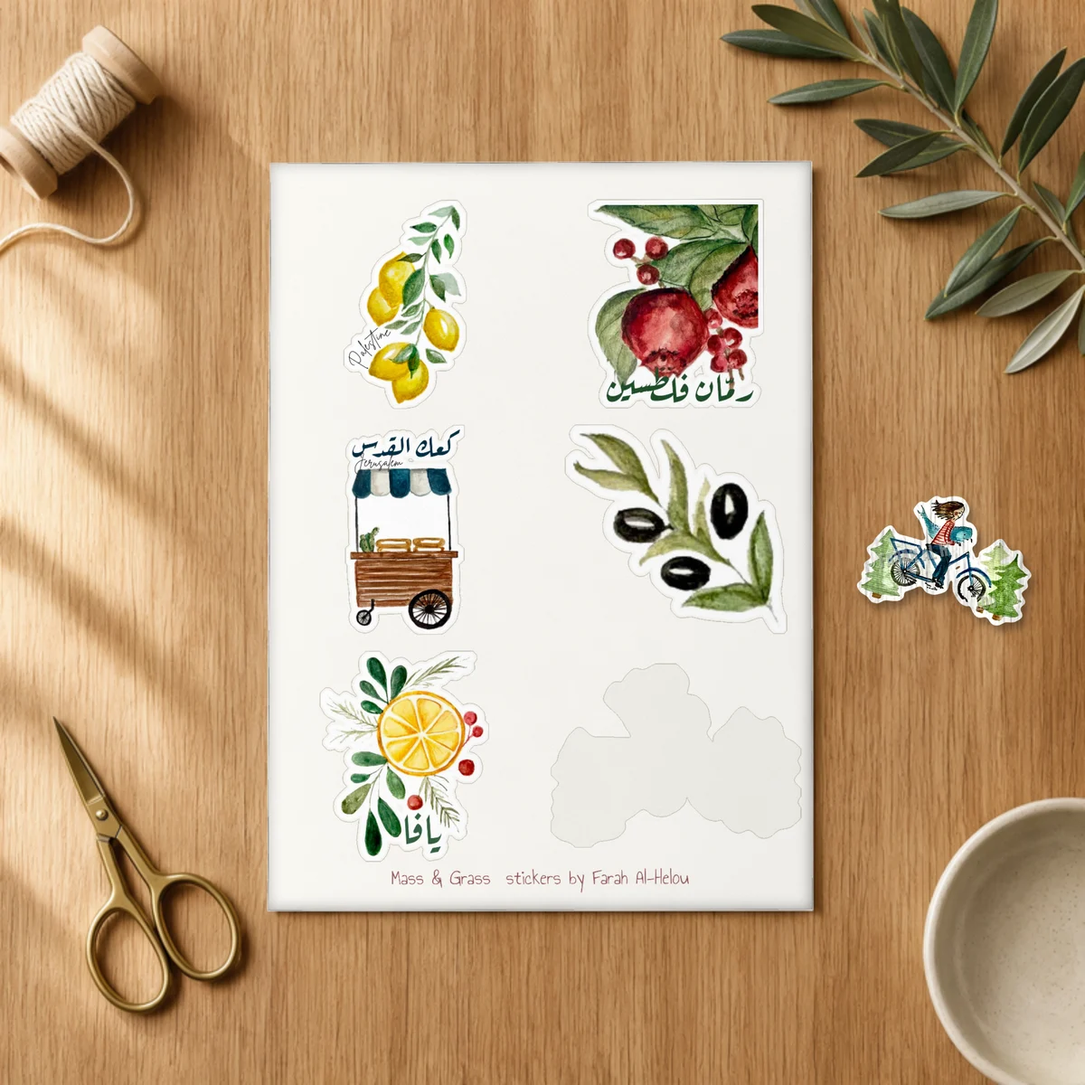
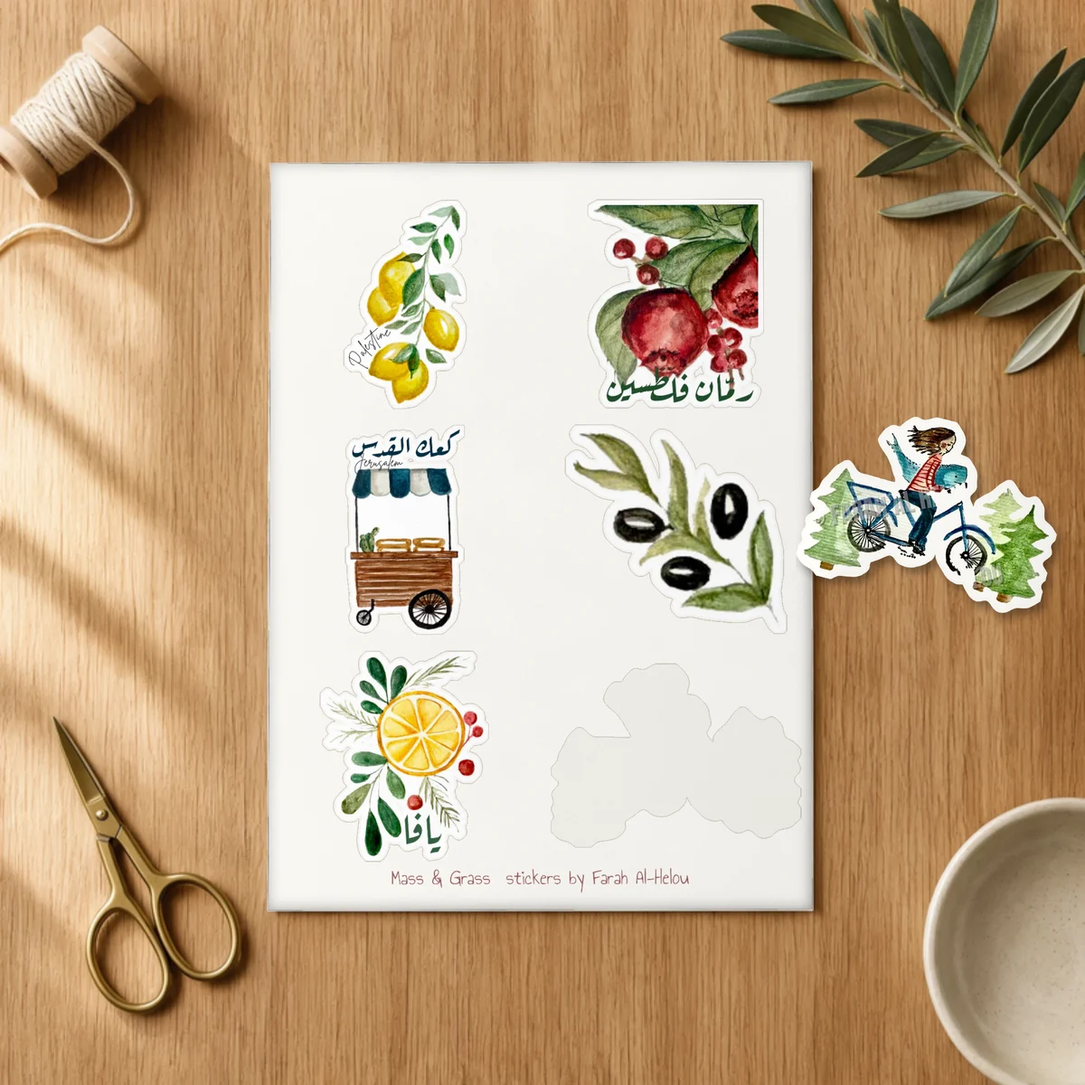
Mockups: whole paintings on cards, stickers to scale and in their shape, the V2 calendar in the quick view
- Postcards (quick view, postcards page, just in): a painting whose shape is not the card's sits whole
  inside a paper border instead of being cropped; the card on the desk is opaque (the back card's
  address no longer shows through it); the caption on a card back is centred, clear of the thumb;
  scenes use the product's own image.
- Stickers on things: long side a fifth of the object's long side (the phone and notebook ones were
  two to three times too big); round and square stickers show their white-edged cut, not a bare rectangle.
- Quick view: the calendar is shown in the V2 photographs (wall, desk, table, January) instead of the
  earlier landscape calendar; "The piece itself" no longer overflows; reopening right after closing
  no longer throws.
- Home: shelf sticker hover sized inside its cell; just-in sticker scale follows the new sizing.
- sh-sk re-rendered: the peeled sticker is the size of the hole it left. tools/shelf_mockups.py now
  runs from the repo blanks (drafts/mockups/shelves) and takes the parts to make.

Claude-Session: https://claude.ai/code/session_011WuUMkvb8t9MEEabS5wD9n

Changed region(s): [[0.74, 0.37, 0.9867, 0.5858]]

diff --git a/web/assets/js/mock.js b/web/assets/js/mock.js
@@ -14,11 +14,17 @@
   const CARD = { 'pc-desk2': { w: 1600, h: 1600, x: .3745, y: .3939, ww: .4859, wh: .3406, rot: 9.31, top: false, n: ['On the desk', 'على المكتب'] },
     'pcp-window': { w: 1536, h: 1920, x: .2168, y: .1391, ww: .5462, wh: .663, clip: '0.00% 0.47%,99.05% 0.00%,100.00% 99.92%,0.83% 100.00%', o: 'p', n: ['By the window', 'عند النافذة'] }, 'pcp-table': { w: 1536, h: 1152, x: .321, y: .1597, ww: .3561, wh: .6571, o: 'p', n: ['In both hands', 'بين اليدين'] } };
   const THING = { 'sk-laptop': { r: [.13, .15, .75, .70], s: .2, n: ['On a laptop', 'على الحاسوب'] }, 'sk-notebook': { r: [.275, .05, .395, .905], s: .24, n: ['On a notebook', 'على الدفتر'] }, 'sk-phone': { r: [.35, .25, .31, .665], s: .2, n: ['On a phone', 'على الهاتف'] } };
-  const CAL = { 'cr2-wall': ['On the wall', 'على الحائط'], 'cr2-hands': ['In the hands', 'بين اليدين'], 'cr2-desk': ['On the desk', 'على المكتب'], 'cr2-flat': ['The pages', 'الصفحات'] };
+  /* the calendar on sale (V2, portrait) in its own photographs: the cr2-* set shows the earlier landscape calendar */
+  const CAL = { 'cww-00': ['On the wall', 'على الحائط'], 'cd-00': ['On the desk', 'على المكتب'], 'cwf-00': ['On the table', 'على الطاولة'], 'cww-01': ['Open on January', 'مفتوحًا على يناير'] };
+  const CALAR = { 'cd-00': 1440 / 1080 };
   const fit = (id, set) => Object.keys(set).map((k) => [k, Math.abs(Math.log((set[k].ww * set[k].w) / (set[k].wh * set[k].h) / asp(id)))]).sort((a, b) => a[1] - b[1]);
   /* the painting whole inside the frame's mat: the same margin all round, a little more at the bottom, as framers cut it */
   function artBox(id, m) { const a = asp(id), mw = m.ww * m.w, mh = m.wh * m.h, g = .13 * Math.min(mw, mh), bw = mw - 2 * g, bh = mh - 2 * g; let w, h; if (a > bw / bh) { w = bw; h = w / a; } else { h = bh; w = h * a; }
     const top = (mh - h) / 2 - .012 * mh; return `left:${((m.x + (mw - w) / 2 / m.w) * 100).toFixed(3)}%;top:${((m.y + top / m.h) * 100).toFixed(3)}%;width:${((w / m.w) * 100).toFixed(3)}%;height:${((h / m.h) * 100).toFixed(3)}%`; }
+  /* a card is printed with its painting whole: when the painting's shape is not the card's, it sits inside a paper border
+     (the photograph's own blank card shows round it) instead of being cut */
+  function cardFit(id, m) { const ca = (m.ww * m.w) / (m.wh * m.h); if (Math.abs(Math.log(ca / asp(id))) <= .04) return ';object-fit:cover';
+    const b = .045 * Math.min(m.ww * m.w, m.wh * m.h) / m.w * 100; return `;object-fit:contain;box-sizing:border-box;padding:${b.toFixed(3)}%`; }
   /* the photographs that suit one piece, best first: [key, name] */
   function scenes(kind, id) {
     if (kind === 'painting') { const d = fit(id, ROOM); return d.filter((x) => x[1] <= d[0][1] + .3).slice(0, 4).map((x) => [x[0], ROOM[x[0]].n]); }
@@ -31,12 +37,19 @@
     const src = esc(kind === 'calendar' ? '' : MG.img(id, p || MG.product(kind, id)));
     if (kind === 'painting') { const m = ROOM[key]; return `<div class="mscene" style="--ar:${m.w / m.h}"><img class="room" src="assets/${key}.webp" alt=""><img class="art framed" src="${src}" alt="" style="${artBox(id, m)}"></div>`; }
     if (kind === 'postcard') { const m = CARD[key], pos = `left:${m.x * 100}%;top:${m.y * 100}%;width:${m.ww * 100}%;height:${m.wh * 100}%`;
-      return `<div class="mscene" style="--ar:${m.w / m.h}"><img class="room" src="assets/${key}.webp" alt=""><img class="art card" src="${src}" alt="" style="${pos}${m.clip ? `;clip-path:polygon(${m.clip})` : ''}${m.rot ? `;rotate:${m.rot}deg;box-shadow:0 1px 2px rgba(60,45,30,.25),0 10px 18px -8px rgba(60,45,30,.35)` : ''}">${m.top === false ? '' : `<img class="top" src="assets/${key}-top.webp" alt="">`}</div>`; }
-    /* a sticker the size a sticker is: about a fifth of a laptop lid, smaller still when it is tall */
-    if (kind === 'sticker') { const m = THING[key], r = m.r, a = asp(id) || .8, w = m.s * .82 * Math.min(1, Math.sqrt(a)); return `<div class="mscene" style="--ar:${1536 / 1152}"><img class="room" src="assets/${key}.webp" alt=""><img class="art stuck" src="${src}" alt="" style="left:${(r[0] + r[2] / 2 - w / 2) * 100}%;top:${(r[1] + r[3] * .5) * 100}%;width:${w * 100}%"></div>`; }
-    return `<div class="mscene" style="--ar:${3072 / 1728}"><img class="room" src="assets/${key}.webp" alt=""></div>`;
+      return `<div class="mscene" style="--ar:${m.w / m.h}"><img class="room" src="assets/${key}.webp" alt=""><img class="art card" src="${src}" alt="" style="${pos}${cardFit(id, m)}${m.clip ? `;clip-path:polygon(${m.clip})` : ''}${m.rot ? `;rotate:${m.rot}deg;box-shadow:0 1px 2px rgba(60,45,30,.25),0 10px 18px -8px rgba(60,45,30,.35)` : ''}">${m.top === false ? '' : `<img class="top" src="assets/${key}-top.webp" alt="">`}</div>`; }
+    /* a sticker the size a sticker is: its long side a fifth of the long side of the thing it is on; die-cut stickers keep
+       their own outline, round and square ones are cut from the painting with a white edge, as they are printed */
+    if (kind === 'sticker') { const m = THING[key], r = m.r, pr = p || MG.product(kind, id), sh = (pr && pr.extra && pr.extra.shape) || 'die',
+        a = sh === 'round' ? 1 : asp(id) || .8, L = .2 * Math.max(r[2] * 1536, r[3] * 1152), w = (a >= 1 ? L : L * a) / 1536,
+        at = `left:${(r[0] + r[2] / 2 - w / 2) * 100}%;top:${(r[1] + r[3] * .5) * 100}%;width:${w * 100}%`;
+      const ix = a >= 1 ? 6 / a : 6, iy = a >= 1 ? 6 : 6 * a;
+      const st = sh === 'die' ? `<img class="art stuck" src="${src}" alt="" style="${at}">`
+        : `<span class="art stuck cut ${sh === 'round' ? 'rd' : 'sq'}" style="${at};aspect-ratio:${a}"><img src="${src}" alt="" style="left:${ix}%;top:${iy}%;width:${100 - 2 * ix}%;height:${100 - 2 * iy}%"></span>`;
+      return `<div class="mscene" style="--ar:${1536 / 1152}"><img class="room" src="assets/${key}.webp" alt="">${st}</div>`; }
+    return `<div class="mscene" style="--ar:${CALAR[key] || 1920 / 1080}"><img class="room" src="assets/${key}.webp" alt=""></div>`;
   }
-  MG.mock = { scenes, scene, asp, ROOM, artBox };
+  MG.mock = { scenes, scene, asp, ROOM, artBox, cardFit };
 
   /* ---------- the quick view: click a piece anywhere and see it in a photograph ---------- */
   let dlg = null, cur = null;
@@ -46,7 +59,7 @@
     if (!dlg) { dlg = doc.createElement('dialog'); dlg.className = 'peek'; dlg.setAttribute('aria-labelledby', 'peek-h'); doc.body.append(dlg);
       dlg.addEventListener('click', (e) => { if (e.target === dlg || e.target.closest('[data-close]')) return dlg.close();
         const b = e.target.closest('[data-sc]'); if (b) { cur.i = +b.dataset.sc; paint(); } });
-      dlg.addEventListener('close', () => { cur = null; }); }
+      dlg.addEventListener('close', () => { if (!dlg.open) cur = null; }); }
     cur = { kind, id, p, sc, i: 0 }; paint(); if (!dlg.open) dlg.showModal(); return true;
   }
   function paint() {
@@ -54,7 +67,7 @@
     const name = cal ? L(MG.calendar.title).replace(/[,،]\s*2027/, '') : MG.title(p), page = MG.PAGE[kind] + (cal ? '' : '#' + id);
     dlg.dir = MG.ar ? 'rtl' : 'ltr';
     dlg.innerHTML = `<div class="peek-in"><button class="x" type="button" data-close aria-label="${t('Close', 'إغلاق')}"><svg viewBox="0 0 16 16" width="14" height="14" aria-hidden="true"><path d="M3 3l10 10M13 3L3 13" fill="none" stroke="currentColor" stroke-width="1.6" stroke-linecap="round"/></svg></button>
-      <div class="peek-v">${plain ? `<div class="mplain ${kind}"><img src="${esc(MG.img(id, p))}" alt=""></div>` : scene(kind, id, sc[i][0], p)}</div>
+      <div class="peek-v">${plain ? `<div class="mplain ${kind} ${kind === 'sticker' && p && p.extra && p.extra.shape ? esc(p.extra.shape) : ''}"><img src="${esc(MG.img(id, p))}" alt=""></div>` : scene(kind, id, sc[i][0], p)}</div>
       <div class="peek-s" role="group" aria-label="${t('Where to see it', 'أين ترونها')}">${sc.map((s, k) => `<button type="button" data-sc="${k}" aria-pressed="${k === i}">${esc(L(s[1]))}</button>`).join('')}${cal ? '' : `<button type="button" data-sc="${sc.length}" aria-pressed="${plain}">${t('The piece itself', 'القطعة نفسها')}</button>`}</div>
       <div class="peek-t"><h2 class="hand" id="peek-h">${esc(name)}</h2><span class="kd">${esc(MG.kindLabel(kind))}</span><b class="fig">${MG.fmt(MG.price(kind, cal ? '' : id))}</b>
         <div class="acts">${cal ? `<button type="button" class="ink" data-add="calendar">${MG.bag.has('calendar', MG.calendar.id) ? t('In your bag', 'في السلة') : t('Add to bag', 'أضيفوه إلى السلة')}</button>` : MG.addBtn(kind, id, 'ink')}${MG.shareBtn(kind, cal ? '' : id)}</div>

diff --git a/web/assets/css/site.css b/web/assets/css/site.css
@@ -237,18 +237,23 @@ html:not(.js) .bagb,html:not(.js) .lang,html:not(.js) .menub{display:none}
 .mscene .framed{object-fit:fill;mix-blend-mode:multiply;box-shadow:0 0 0 1px rgba(var(--ink-rgb),.16),0 0 0 3px rgba(255,255,255,.55),0 0 0 4px rgba(var(--ink-rgb),.08),0 1px 3px 3px rgba(var(--ink-rgb),.1)}
 .mscene .card{object-fit:cover}
 .mscene .stuck{height:auto;translate:0 -50%;rotate:-6deg;filter:drop-shadow(0 2px 2px rgba(var(--ink-rgb),.28))}
+.mscene .stuck.cut{position:absolute;display:block;background:var(--paper-white);border-radius:3%}
+.mscene .stuck.cut img{position:absolute;object-fit:cover;border-radius:2%}
+.mscene .stuck.rd,.mscene .stuck.rd img{border-radius:50%}
 /* the quick view */
 .peek{width:min(1080px,calc(100vw - 24px));max-width:none;max-height:calc(100dvh - 24px);padding:0;border:1px solid var(--ink);background:var(--paper);color:var(--ink);overflow:auto}
 .peek::backdrop{background:rgba(var(--ink-rgb),.5);backdrop-filter:blur(6px)}
 .peek[open]{animation:peekIn .45s var(--ease)}
 @keyframes peekIn{from{opacity:0;transform:translateY(24px);filter:blur(8px)}}
 .peek-in{display:grid;grid-template-columns:minmax(0,1.5fr) minmax(0,1fr);grid-template-rows:minmax(0,1fr) auto}
-.peek-v{grid-row:1;height:min(62vh,600px);background:var(--c-e7dcc6);border-inline-end:1px solid var(--line);display:grid;place-items:center;overflow:hidden}
+.peek-v{grid-row:1;height:min(62vh,600px);grid-template:minmax(0,1fr)/minmax(0,1fr);background:var(--c-e7dcc6);border-inline-end:1px solid var(--line);display:grid;place-items:center;overflow:hidden}
 .peek-v .mscene{animation:sceneIn .6s var(--ease)}
 @keyframes sceneIn{from{opacity:0;filter:blur(10px);scale:1.03}}
-.mplain{display:grid;place-items:center;width:100%;height:100%;padding:8%;animation:sceneIn .6s var(--ease)}
+.mplain{display:grid;grid-template:minmax(0,1fr)/minmax(0,1fr);place-items:center;width:100%;height:100%;padding:8%;animation:sceneIn .6s var(--ease)}
 .mplain img{max-width:100%;max-height:100%;width:auto;height:auto;background:var(--paper-white);padding:2.5%;box-shadow:0 1px 1px rgba(var(--ink-rgb),.1),0 26px 40px -22px rgba(var(--ink-rgb),.5)}
 .mplain.sticker img{background:none;padding:0;box-shadow:none;filter:drop-shadow(0 10px 12px rgba(var(--ink-rgb),.25));max-height:80%}
+.mplain.sticker.round img,.mplain.sticker.rect img{background:var(--paper-white);padding:3%;max-width:80%;filter:drop-shadow(0 2px 2px rgba(var(--ink-rgb),.2)) drop-shadow(0 10px 12px rgba(var(--ink-rgb),.2))}
+.mplain.sticker.round img{border-radius:50%;aspect-ratio:1;object-fit:cover;width:auto;height:70%;max-width:none}
 .peek-s{grid-row:2;display:flex;flex-wrap:wrap;border-top:1px solid var(--line);border-inline-end:1px solid var(--line)}
 .peek-s button{flex:1;min-height:48px;padding:0 12px;border:0;border-inline-end:1px solid var(--line);background:none;color:var(--ink);font:500 var(--fs-caption)/1.2 var(--f);cursor:pointer;transition:background .2s,color .2s}
 .peek-s button:last-child{border-inline-end:0}

diff --git a/web/assets/js/postcards.js b/web/assets/js/postcards.js
@@ -24,7 +24,7 @@ function envCard(el,k){const a=pa(k),w=Math.min(88,58.7*a);el.style.left=el.styl
 const faceW=k=>pa(k)<1.5?`width:${100*pa(k)/1.5}%;margin-inline:auto`:'';
 const scenesFor=k=>MKK.filter(m=>MK[m].side==='back'||(MK[m].o==='p'?pa(k)<1.15:pa(k)>=1.15));
 function sceneHTML(key,k){const m=MK[k],i=Math.max(0,P.findIndex(p=>p[0]===key)),pos=`left:${m.x*100}%;top:${m.y*100}%;width:${m.ww*100}%;height:${m.wh*100}%`;const ins=.004,ipos=`left:${(m.x+m.ww*ins)*100}%;top:${(m.y+m.wh*ins)*100}%;width:${m.ww*(1-ins*2)*100}%;height:${m.wh*(1-ins*2)*100}%`;
-  return `<div class="scene" style="--ar:${m.w/m.h}"><img class="room" src="assets/${k}.webp" alt="">${m.side==='back'?`<div class="bk" style="${pos}">${backHTML(i)}</div>`:`<img class="art" src="assets/${key}.webp" alt="" style="${m.clip?pos+`;clip-path:polygon(${m.clip})`:ipos}${m.rot?`;rotate:${m.rot}deg;box-shadow:0 1px 2px rgba(60,45,30,.25),0 10px 18px -8px rgba(60,45,30,.35)`:''}">`}${m.occ?`<img class="top" src="assets/${k}-top.webp" alt="">`:''}</div>`}
+  return `<div class="scene" style="--ar:${m.w/m.h}"><img class="room" src="assets/${k}.webp" alt="">${m.side==='back'?`<div class="bk" style="${pos}">${backHTML(i)}</div>`:`<img class="art" src="${P[i]?P[i][5]:'assets/'+key+'.webp'}" alt="" style="${m.clip?pos+`;clip-path:polygon(${m.clip})`:ipos}${MG.mock?MG.mock.cardFit(key,m):''}${m.rot?`;rotate:${m.rot}deg;mix-blend-mode:normal;box-shadow:0 1px 2px rgba(60,45,30,.25),0 10px 18px -8px rgba(60,45,30,.35)`:''}">`}${m.occ?`<img class="top" src="assets/${k}-top.webp" alt="">`:''}</div>`}
 const $=id=>document.getElementById(id),T=(en,ar)=>AR?ar:en;const SH={fmt:MG.fmt,price:MG.price,toast:MG.toast,BAG:{has:(k,id)=>MG.bag.has(k,id),toggle:(k,id)=>MG.bag.toggle(k,id)}};
 
 /* 1 · the envelope in the intro hands out one card after another */

diff --git a/web/shop.html b/web/shop.html
@@ -19,11 +19,11 @@
 <link rel="preload" href="fonts/geist-mono-latin-500-normal.woff2" as="font" type="font/woff2" crossorigin>
 <link rel="stylesheet" href="fonts/all.css">
 <link rel="stylesheet" href="fonts/figtree.css">
-<link rel="stylesheet" href="assets/css/site.css?v=505a0bc1">
-<link rel="stylesheet" href="assets/css/hand.css?v=505a0bc1">
-<link rel="stylesheet" href="assets/css/tiles.css?v=505a0bc1">
-<link rel="stylesheet" href="assets/css/shop.css?v=505a0bc1">
-<script src="assets/js/boot.js?v=505a0bc1"></script>
+<link rel="stylesheet" href="assets/css/site.css?v=fc3d017a">
+<link rel="stylesheet" href="assets/css/hand.css?v=fc3d017a">
+<link rel="stylesheet" href="assets/css/tiles.css?v=fc3d017a">
+<link rel="stylesheet" href="assets/css/shop.css?v=fc3d017a">
+<script src="assets/js/boot.js?v=fc3d017a"></script>
 </head>
 <body>
 <a class="skip" href="#main" data-ar="انتقلوا إلى المحتوى">Skip to content</a>
@@ -87,10 +87,10 @@
   <div class="ft-z"><small data-ar="© 2026 ماس آند غراس، غزة، فلسطين">© 2026 Mass &amp; Grass, Gaza, Palestine</small><div class="soc" id="soc"></div></div>
 </footer>
 
-<script src="assets/js/catalog.js?v=505a0bc1" defer></script>
-<script src="assets/js/art.js?v=505a0bc1" defer></script>
-<script src="assets/js/core.js?v=505a0bc1" defer></script>
-<script src="assets/js/mock.js?v=505a0bc1" defer></script>
-<script src="assets/js/shop.js?v=505a0bc1" defer></script>
+<script src="assets/js/catalog.js?v=fc3d017a" defer></script>
+<script src="assets/js/art.js?v=fc3d017a" defer></script>
+<script src="assets/js/core.js?v=fc3d017a" defer></script>
+<script src="assets/js/mock.js?v=fc3d017a" defer></script>
+<script src="assets/js/shop.js?v=fc3d017a" defer></script>
 </body>
 </html>

diff --git a/web/paintings.html b/web/paintings.html
@@ -19,10 +19,10 @@
 <link rel="preload" href="fonts/geist-mono-latin-500-normal.woff2" as="font" type="font/woff2" crossorigin>
 <link rel="stylesheet" href="fonts/all.css">
 <link rel="stylesheet" href="fonts/figtree.css">
-<link rel="stylesheet" href="assets/css/site.css?v=505a0bc1">
-<link rel="stylesheet" href="assets/css/hand.css?v=505a0bc1">
-<link rel="stylesheet" href="assets/css/paintings.css?v=505a0bc1">
-<script src="assets/js/boot.js?v=505a0bc1"></script>
+<link rel="stylesheet" href="assets/css/site.css?v=fc3d017a">
+<link rel="stylesheet" href="assets/css/hand.css?v=fc3d017a">
+<link rel="stylesheet" href="assets/css/paintings.css?v=fc3d017a">
+<script src="assets/js/boot.js?v=fc3d017a"></script>
 </head>
 <body>
 <a class="skip" href="#main" data-ar="انتقلوا إلى المحتوى">Skip to content</a>
@@ -108,10 +108,10 @@
   <div class="ft-z"><small data-ar="© 2026 ماس آند غراس، غزة، فلسطين">© 2026 Mass &amp; Grass, Gaza, Palestine</small><div class="soc" id="soc"></div></div>
 </footer>
 
-<script src="assets/js/catalog.js?v=505a0bc1" defer></script>
-<script src="assets/js/art.js?v=505a0bc1" defer></script>
-<script src="assets/js/core.js?v=505a0bc1" defer></script>
-<script src="assets/js/mock.js?v=505a0bc1" defer></script>
-<script src="assets/js/paintings.js?v=505a0bc1" defer></script>
+<script src="assets/js/catalog.js?v=fc3d017a" defer></script>
+<script src="assets/js/art.js?v=fc3d017a" defer></script>
+<script src="assets/js/core.js?v=fc3d017a" defer></script>
+<script src="assets/js/mock.js?v=fc3d017a" defer></script>
+<script src="assets/js/paintings.js?v=fc3d017a" defer></script>
 </body>
 </html>

diff --git a/web/postcards.html b/web/postcards.html
@@ -19,10 +19,10 @@
 <link rel="preload" href="fonts/geist-mono-latin-500-normal.woff2" as="font" type="font/woff2" crossorigin>
 <link rel="stylesheet" href="fonts/all.css">
 <link rel="stylesheet" href="fonts/figtree.css">
-<link rel="stylesheet" href="assets/css/site.css?v=505a0bc1">
-<link rel="stylesheet" href="assets/css/hand.css?v=505a0bc1">
-<link rel="stylesheet" href="assets/css/postcards.css?v=505a0bc1">
-<script src="assets/js/boot.js?v=505a0bc1"></script>
+<link rel="stylesheet" href="assets/css/site.css?v=fc3d017a">
+<link rel="stylesheet" href="assets/css/hand.css?v=fc3d017a">
+<link rel="stylesheet" href="assets/css/postcards.css?v=fc3d017a">
+<script src="assets/js/boot.js?v=fc3d017a"></script>
 </head>
 <body>
 <a class="skip" href="#main" data-ar="انتقلوا إلى المحتوى">Skip to content</a>
@@ -159,10 +159,10 @@
   <div class="ft-z"><small data-ar="© 2026 ماس آند غراس، غزة، فلسطين">© 2026 Mass &amp; Grass, Gaza, Palestine</small><div class="soc" id="soc"></div></div>
 </footer>
 
-<script src="assets/js/catalog.js?v=505a0bc1" defer></script>
-<script src="assets/js/art.js?v=505a0bc1" defer></script>
-<script src="assets/js/core.js?v=505a0bc1" defer></script>
-<script src="assets/js/mock.js?v=505a0bc1" defer></script>
-<script src="assets/js/postcards.js?v=505a0bc1" defer></script>
+<script src="assets/js/catalog.js?v=fc3d017a" defer></script>
+<script src="assets/js/art.js?v=fc3d017a" defer></script>
+<script src="assets/js/core.js?v=fc3d017a" defer></script>
+<script src="assets/js/mock.js?v=fc3d017a" defer></script>
+<script src="assets/js/postcards.js?v=fc3d017a" defer></script>
 </body>
 </html>

diff --git a/web/palestine.html b/web/palestine.html
@@ -19,10 +19,10 @@
 <link rel="preload" href="fonts/geist-mono-latin-500-normal.woff2" as="font" type="font/woff2" crossorigin>
 <link rel="stylesheet" href="fonts/all.css">
 <link rel="stylesheet" href="fonts/figtree.css">
-<link rel="stylesheet" href="assets/css/site.css?v=505a0bc1">
-<link rel="stylesheet" href="assets/css/hand.css?v=505a0bc1">
-<link rel="stylesheet" href="assets/css/calendar.css?v=505a0bc1">
-<script src="assets/js/boot.js?v=505a0bc1"></script>
+<link rel="stylesheet" href="assets/css/site.css?v=fc3d017a">
+<link rel="stylesheet" href="assets/css/hand.css?v=fc3d017a">
+<link rel="stylesheet" href="assets/css/calendar.css?v=fc3d017a">
+<script src="assets/js/boot.js?v=fc3d017a"></script>
 </head>
 <body>
 <a class="skip" href="#main" data-ar="انتقلوا إلى المحتوى">Skip to content</a>
@@ -125,10 +125,10 @@
   <div class="ft-z"><small data-ar="© 2026 ماس آند غراس، غزة، فلسطين">© 2026 Mass &amp; Grass, Gaza, Palestine</small><div class="soc" id="soc"></div></div>
 </footer>
 
-<script src="assets/js/catalog.js?v=505a0bc1" defer></script>
-<script src="assets/js/art.js?v=505a0bc1" defer></script>
-<script src="assets/js/core.js?v=505a0bc1" defer></script>
-<script src="assets/js/mock.js?v=505a0bc1" defer></script>
-<script src="assets/js/palestine.js?v=505a0bc1" defer></script>
+<script src="assets/js/catalog.js?v=fc3d017a" defer></script>
+<script src="assets/js/art.js?v=fc3d017a" defer></script>
+<script src="assets/js/core.js?v=fc3d017a" defer></script>
+<script src="assets/js/mock.js?v=fc3d017a" defer></script>
+<script src="assets/js/palestine.js?v=fc3d017a" defer></script>
 </body>
 </html>

diff --git a/web/calendar.html b/web/calendar.html
@@ -19,10 +19,10 @@
 <link rel="preload" href="fonts/geist-mono-latin-500-normal.woff2" as="font" type="font/woff2" crossorigin>
 <link rel="stylesheet" href="fonts/all.css">
 <link rel="stylesheet" href="fonts/figtree.css">
-<link rel="stylesheet" href="assets/css/site.css?v=505a0bc1">
-<link rel="stylesheet" href="assets/css/hand.css?v=505a0bc1">
-<link rel="stylesheet" href="assets/css/calendar.css?v=505a0bc1">
-<script src="assets/js/boot.js?v=505a0bc1"></script>
+<link rel="stylesheet" href="assets/css/site.css?v=fc3d017a">
+<link rel="stylesheet" href="assets/css/hand.css?v=fc3d017a">
+<link rel="stylesheet" href="assets/css/calendar.css?v=fc3d017a">
+<script src="assets/js/boot.js?v=fc3d017a"></script>
 </head>
 <body>
 <a class="skip" href="#main" data-ar="انتقلوا إلى المحتوى">Skip to content</a>
@@ -139,10 +139,10 @@
   <div class="ft-z"><small data-ar="© 2026 ماس آند غراس، غزة، فلسطين">© 2026 Mass &amp; Grass, Gaza, Palestine</small><div class="soc" id="soc"></div></div>
 </footer>
 
-<script src="assets/js/catalog.js?v=505a0bc1" defer></script>
-<script src="assets/js/art.js?v=505a0bc1" defer></script>
-<script src="assets/js/core.js?v=505a0bc1" defer></script>
-<script src="assets/js/mock.js?v=505a0bc1" defer></script>
-<script src="assets/js/calendar.js?v=505a0bc1" defer></script>
+<script src="assets/js/catalog.js?v=fc3d017a" defer></script>
+<script src="assets/js/art.js?v=fc3d017a" defer></script>
+<script src="assets/js/core.js?v=fc3d017a" defer></script>
+<script src="assets/js/mock.js?v=fc3d017a" defer></script>
+<script src="assets/js/calendar.js?v=fc3d017a" defer></script>
 </body>
 </html>

diff --git a/web/stickers.html b/web/stickers.html
@@ -19,10 +19,10 @@
 <link rel="preload" href="fonts/geist-mono-latin-500-normal.woff2" as="font" type="font/woff2" crossorigin>
 <link rel="stylesheet" href="fonts/all.css">
 <link rel="stylesheet" href="fonts/figtree.css">
-<link rel="stylesheet" href="assets/css/site.css?v=505a0bc1">
-<link rel="stylesheet" href="assets/css/hand.css?v=505a0bc1">
-<link rel="stylesheet" href="assets/css/stickers.css?v=505a0bc1">
-<script src="assets/js/boot.js?v=505a0bc1"></script>
+<link rel="stylesheet" href="assets/css/site.css?v=fc3d017a">
+<link rel="stylesheet" href="assets/css/hand.css?v=fc3d017a">
+<link rel="stylesheet" href="assets/css/stickers.css?v=fc3d017a">
+<script src="assets/js/boot.js?v=fc3d017a"></script>
 </head>
 <body>
 <a class="skip" href="#main" data-ar="انتقلوا إلى المحتوى">Skip to content</a>
@@ -112,10 +112,10 @@
   <div class="ft-z"><small data-ar="© 2026 ماس آند غراس، غزة، فلسطين">© 2026 Mass &amp; Grass, Gaza, Palestine</small><div class="soc" id="soc"></div></div>
 </footer>
 
-<script src="assets/js/catalog.js?v=505a0bc1" defer></script>
-<script src="assets/js/art.js?v=505a0bc1" defer></script>
-<script src="assets/js/core.js?v=505a0bc1" defer></script>
-<script src="assets/js/mock.js?v=505a0bc1" defer></script>
-<script src="assets/js/stickers.js?v=505a0bc1" defer></script>
+<script src="assets/js/catalog.js?v=fc3d017a" defer></script>
+<script src="assets/js/art.js?v=fc3d017a" defer></script>
+<script src="assets/js/core.js?v=fc3d017a" defer></script>
+<script src="assets/js/mock.js?v=fc3d017a" defer></script>
+<script src="assets/js/stickers.js?v=fc3d017a" defer></script>
 </body>
 </html>

diff --git a/web/checkout.html b/web/checkout.html
@@ -20,10 +20,10 @@
 <link rel="preload" href="fonts/geist-mono-latin-500-normal.woff2" as="font" type="font/woff2" crossorigin>
 <link rel="stylesheet" href="fonts/all.css">
 <link rel="stylesheet" href="fonts/figtree.css">
-<link rel="stylesheet" href="assets/css/site.css?v=505a0bc1">
-<link rel="stylesheet" href="assets/css/hand.css?v=505a0bc1">
-<link rel="stylesheet" href="assets/css/checkout.css?v=505a0bc1">
-<script src="assets/js/boot.js?v=505a0bc1"></script>
+<link rel="stylesheet" href="assets/css/site.css?v=fc3d017a">
+<link rel="stylesheet" href="assets/css/hand.css?v=fc3d017a">
+<link rel="stylesheet" href="assets/css/checkout.css?v=fc3d017a">
+<script src="assets/js/boot.js?v=fc3d017a"></script>
 </head>
 <body>
 <a class="skip" href="#main" data-ar="انتقلوا إلى المحتوى">Skip to content</a>
@@ -86,10 +86,10 @@
   <div class="ft-z"><small data-ar="© 2026 ماس آند غراس، غزة، فلسطين">© 2026 Mass &amp; Grass, Gaza, Palestine</small><div class="soc" id="soc"></div></div>
 </footer>
 
-<script src="assets/js/catalog.js?v=505a0bc1" defer></script>
-<script src="assets/js/art.js?v=505a0bc1" defer></script>
-<script src="assets/js/core.js?v=505a0bc1" defer></script>
-<script src="assets/js/mock.js?v=505a0bc1" defer></script>
-<script src="assets/js/checkout.js?v=505a0bc1" defer></script>
+<script src="assets/js/catalog.js?v=fc3d017a" defer></script>
+<script src="assets/js/art.js?v=fc3d017a" defer></script>
+<script src="assets/js/core.js?v=fc3d017a" defer></script>
+<script src="assets/js/mock.js?v=fc3d017a" defer></script>
+<script src="assets/js/checkout.js?v=fc3d017a" defer></script>
 </body>
 </html>

diff --git a/web/account.html b/web/account.html
@@ -20,10 +20,10 @@
 <link rel="preload" href="fonts/geist-mono-latin-500-normal.woff2" as="font" type="font/woff2" crossorigin>
 <link rel="stylesheet" href="fonts/all.css">
 <link rel="stylesheet" href="fonts/figtree.css">
-<link rel="stylesheet" href="assets/css/site.css?v=505a0bc1">
-<link rel="stylesheet" href="assets/css/hand.css?v=505a0bc1">
-<link rel="stylesheet" href="assets/css/account.css?v=505a0bc1">
-<script src="assets/js/boot.js?v=505a0bc1"></script>
+<link rel="stylesheet" href="assets/css/site.css?v=fc3d017a">
+<link rel="stylesheet" href="assets/css/hand.css?v=fc3d017a">
+<link rel="stylesheet" href="assets/css/account.css?v=fc3d017a">
+<script src="assets/js/boot.js?v=fc3d017a"></script>
 </head>
 <body>
 <a class="skip" href="#main" data-ar="انتقلوا إلى المحتوى">Skip to content</a>
@@ -91,10 +91,10 @@
   <div class="ft-z"><small data-ar="© 2026 ماس آند غراس، غزة، فلسطين">© 2026 Mass &amp; Grass, Gaza, Palestine</small><div class="soc" id="soc"></div></div>
 </footer>
 
-<script src="assets/js/catalog.js?v=505a0bc1" defer></script>
-<script src="assets/js/art.js?v=505a0bc1" defer></script>
-<script src="assets/js/core.js?v=505a0bc1" defer></script>
-<script src="assets/js/mock.js?v=505a0bc1" defer></script>
-<script src="assets/js/account.js?v=505a0bc1" defer></script>
+<script src="assets/js/catalog.js?v=fc3d017a" defer></script>
+<script src="assets/js/art.js?v=fc3d017a" defer></script>
+<script src="assets/js/core.js?v=fc3d017a" defer></script>
+<script src="assets/js/mock.js?v=fc3d017a" defer></script>
+<script src="assets/js/account.js?v=fc3d017a" defer></script>
 </body>
 </html>

diff --git a/web/profile.html b/web/profile.html
@@ -20,10 +20,10 @@
 <link rel="preload" href="fonts/geist-mono-latin-500-normal.woff2" as="font" type="font/woff2" crossorigin>
 <link rel="stylesheet" href="fonts/all.css">
 <link rel="stylesheet" href="fonts/figtree.css">
-<link rel="stylesheet" href="assets/css/site.css?v=505a0bc1">
-<link rel="stylesheet" href="assets/css/hand.css?v=505a0bc1">
-<link rel="stylesheet" href="assets/css/profile.css?v=505a0bc1">
-<script src="assets/js/boot.js?v=505a0bc1"></script>
+<link rel="stylesheet" href="assets/css/site.css?v=fc3d017a">
+<link rel="stylesheet" href="assets/css/hand.css?v=fc3d017a">
+<link rel="stylesheet" href="assets/css/profile.css?v=fc3d017a">
+<script src="assets/js/boot.js?v=fc3d017a"></script>
 </head>
 <body>
 <a class="skip" href="#main" data-ar="انتقلوا إلى المحتوى">Skip to content</a>
@@ -93,10 +93,10 @@
   <div class="ft-z"><small data-ar="© 2026 ماس آند غراس، غزة، فلسطين">© 2026 Mass &amp; Grass, Gaza, Palestine</small><div class="soc" id="soc"></div></div>
 </footer>
 
-<script src="assets/js/catalog.js?v=505a0bc1" defer></script>
-<script src="assets/js/art.js?v=505a0bc1" defer></script>
-<script src="assets/js/core.js?v=505a0bc1" defer></script>
-<script src="assets/js/mock.js?v=505a0bc1" defer></script>
-<script src="assets/js/profile.js?v=505a0bc1" defer></script>
+<script src="assets/js/catalog.js?v=fc3d017a" defer></script>
+<script src="assets/js/art.js?v=fc3d017a" defer></script>
+<script src="assets/js/core.js?v=fc3d017a" defer></script>
+<script src="assets/js/mock.js?v=fc3d017a" defer></script>
+<script src="assets/js/profile.js?v=fc3d017a" defer></script>
 </body>
 </html>
